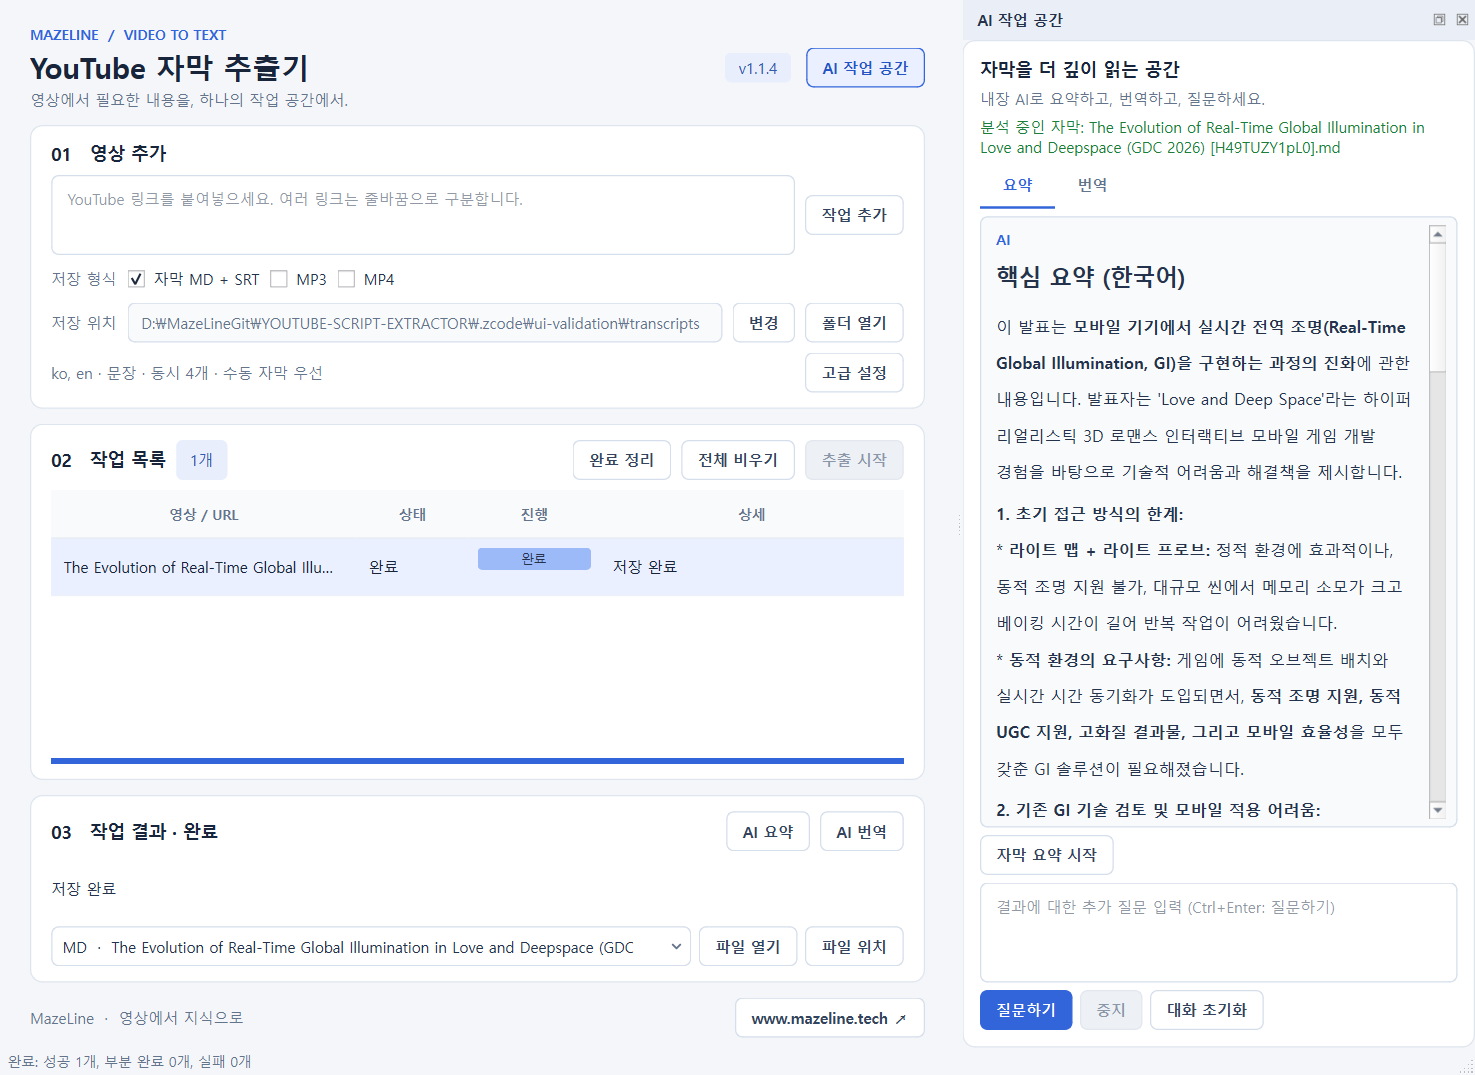
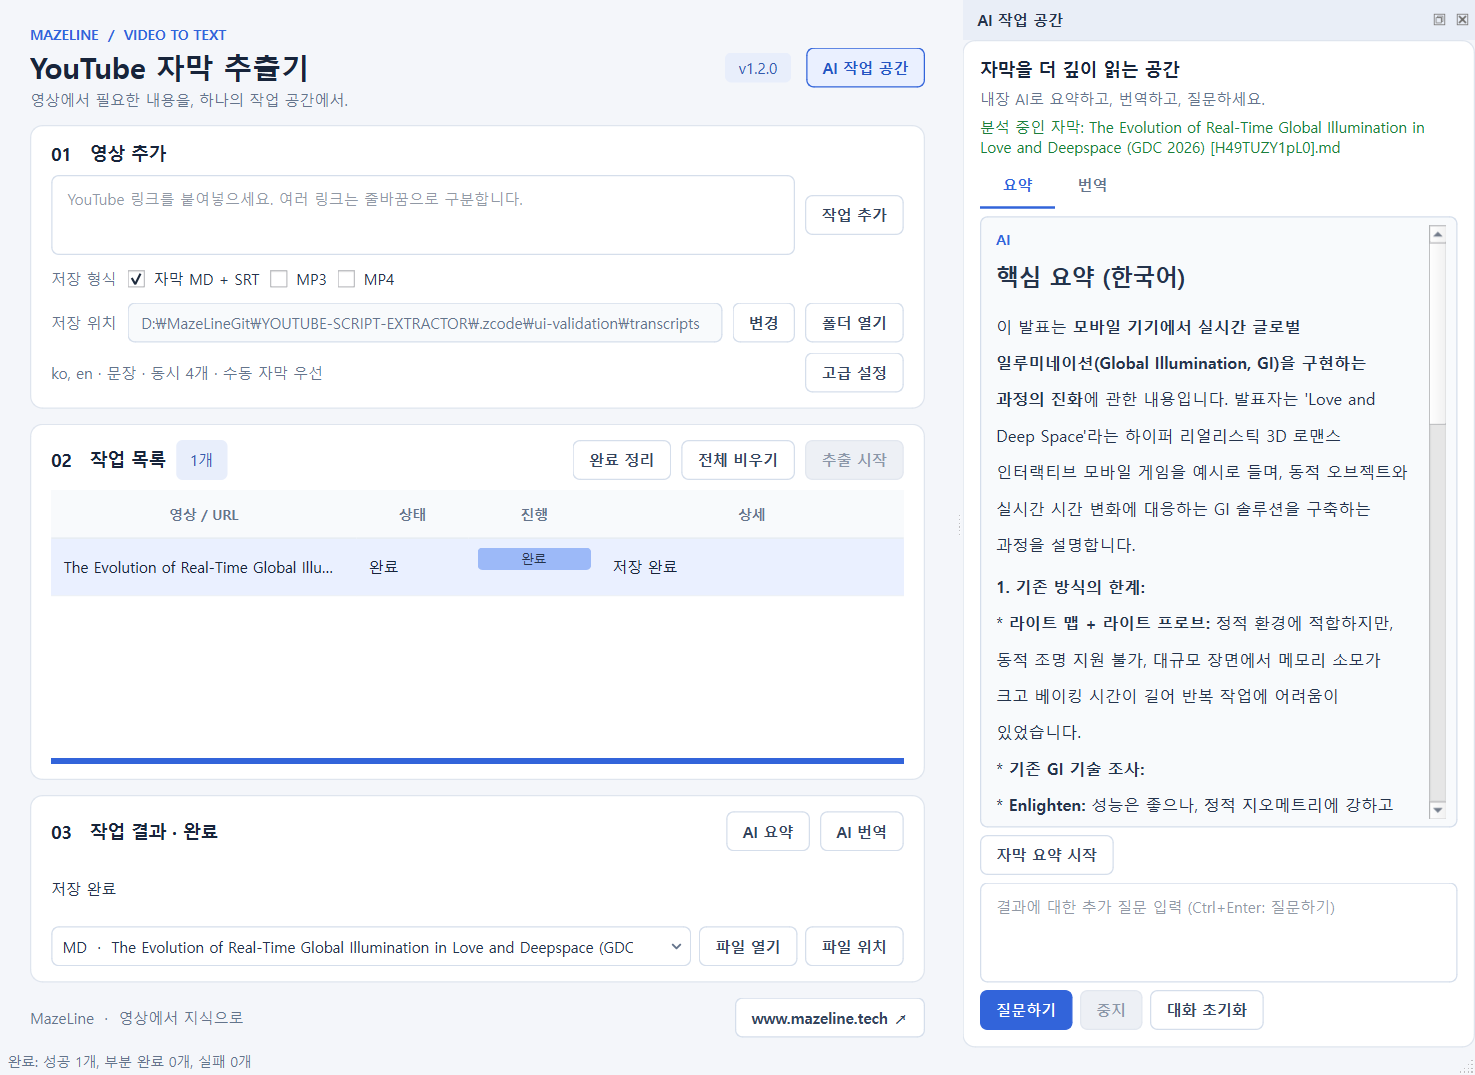
chore: prepare 1.2.0 UI redesign release

Changed region(s): [[0.6549, 0.2763, 0.9668, 0.7674]]

diff --git a/yt_extractor/__init__.py b/yt_extractor/__init__.py
@@ -1,3 +1,3 @@
 """YouTube transcript extractor package."""
 
-__version__ = "1.1.4"
+__version__ = "1.2.0"
